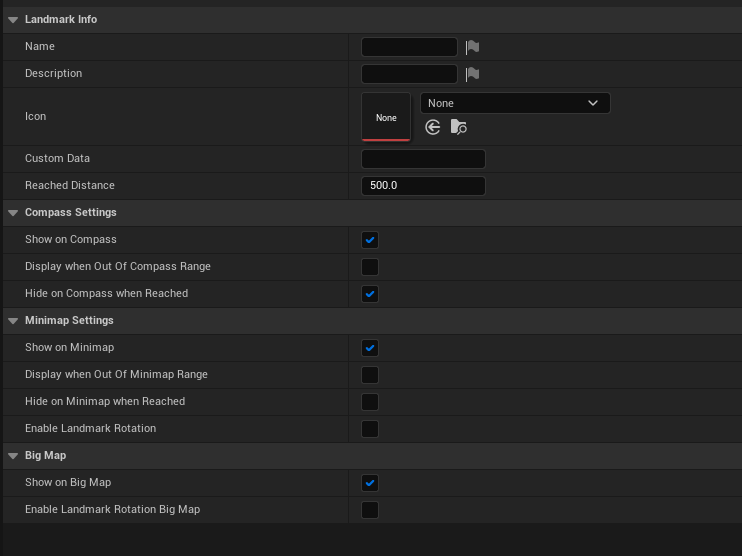
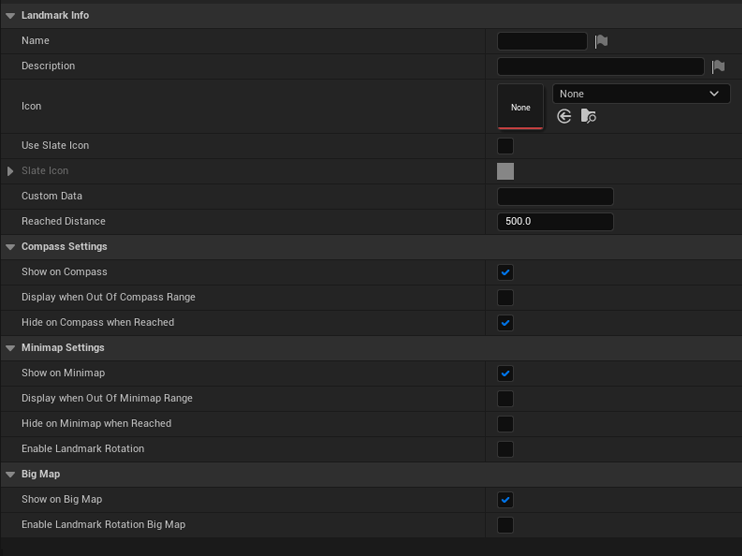
LandmarkNavigation v4
Updated docs for LandmarkNavigation v4

diff --git a/docs/LandmarkNavigation/Entities/LandmarkAsset.md b/docs/LandmarkNavigation/Entities/LandmarkAsset.md
@@ -25,13 +25,15 @@ Create `ULandmarkAsset` for each different landmarks you wish to have in your ga
 ![](../assets/Common/LN_LandmarkAsset_Image.png)
 #### Landmark Info
 
-| Property Name    | Description                                                                                             |
-| ---------------- | ------------------------------------------------------------------------------------------------------- |
-| Name             | Name of the Landmark (Not used by LandmarkNavigation)                                                   |
-| Description      | Description of the Landmark (Not used by LandmarkNavigation)                                            |
-| Icon             | Texture to represent the landmark on the minimap, compass and waypoint widgets.                         |
-| Custom Data      | Use this field if you need to save some extra data for your game logic (Not used by LandmarkNavigation) |
-| Reached Distance | Controls how close to the landmark the player has to be to trigger the OnLandmarkReached event          |
+| Property Name    | Description                                                                                                                                                                                                                                                                                                                                                                                     |
+| ---------------- | ----------------------------------------------------------------------------------------------------------------------------------------------------------------------------------------------------------------------------------------------------------------------------------------------------------------------------------------------------------------------------------------------- |
+| Name             | Name of the Landmark (Not used by LandmarkNavigation)                                                                                                                                                                                                                                                                                                                                           |
+| Description      | Description of the Landmark (Not used by LandmarkNavigation)                                                                                                                                                                                                                                                                                                                                    |
+| Icon             | Texture to represent the landmark on the minimap, compass and waypoint widgets. Only available when bUseSlateIcon is set to false.                                                                                                                                                                                                                                                              |
+| bUseSlateIcon    | If true, use the SlateIcon struct instead of the Icon Texture2d to represent this landmark on screen.                                                                                                                                                                                                                                                                                           |
+| SlateIcon        | Texture or UI material to represent the landmark on the minimap, compass and waypoint widgets. This offers more customisation than the Icon UTexture2D. Only available when bUseSlateIcon is set to false. Please note that if you use a UI Material, the 'Draw Debug Landmark' feature won't be able to display the material (see [`ULandmarkComponent`](LandmarkComponent){:target="blank"}). |
+| Custom Data      | Use this field if you need to save some extra data for your game logic (Not used by LandmarkNavigation)                                                                                                                                                                                                                                                                                         |
+| Reached Distance | Controls how close to the landmark the player has to be to trigger the OnLandmarkReached event                                                                                                                                                                                                                                                                                                  |
 
 #### Compass Settings
 

diff --git a/docs/LandmarkNavigation/Changelog.md b/docs/LandmarkNavigation/Changelog.md
@@ -25,3 +25,10 @@ nav_order: "10"
 * **New feature:** Middle click in the BigMap will now pin the location by spawning a BP_LN_UserLandmark. Right click while hovering one while remove it. Settings available to allow multiple pinned location and to disable the feature.  
 * **New feature:** Hovering a landmark in the BigMap will now display a tooltip showing the landmark's name, description and distance to player. Setting available to disable it. 
 * Fixed issue causing a division by 0 when zooming in to the max in the minimap.
+
+## Version 4 - 14/10/2025
+
+* Middle clicking on an existing landmark in the big map will now set it as waypoint rather than spawning a new pin point
+* Added a FSlateIcon member to LandmarkAsset which allows for more customisation (including the use of UI materials) that the Icon UTexture2D member. This has to be enabled with the boolean tick box 'bUseSlateIcon'. 
+* DA_LN_DemoLandmark_Distant now uses a material as use example for this new SlateIcon member. (see Demo)
+* DA_LN_DemoLandmark_Dual now uses a texture with tint as use example for this new SlateIcon member. (see Demo)
